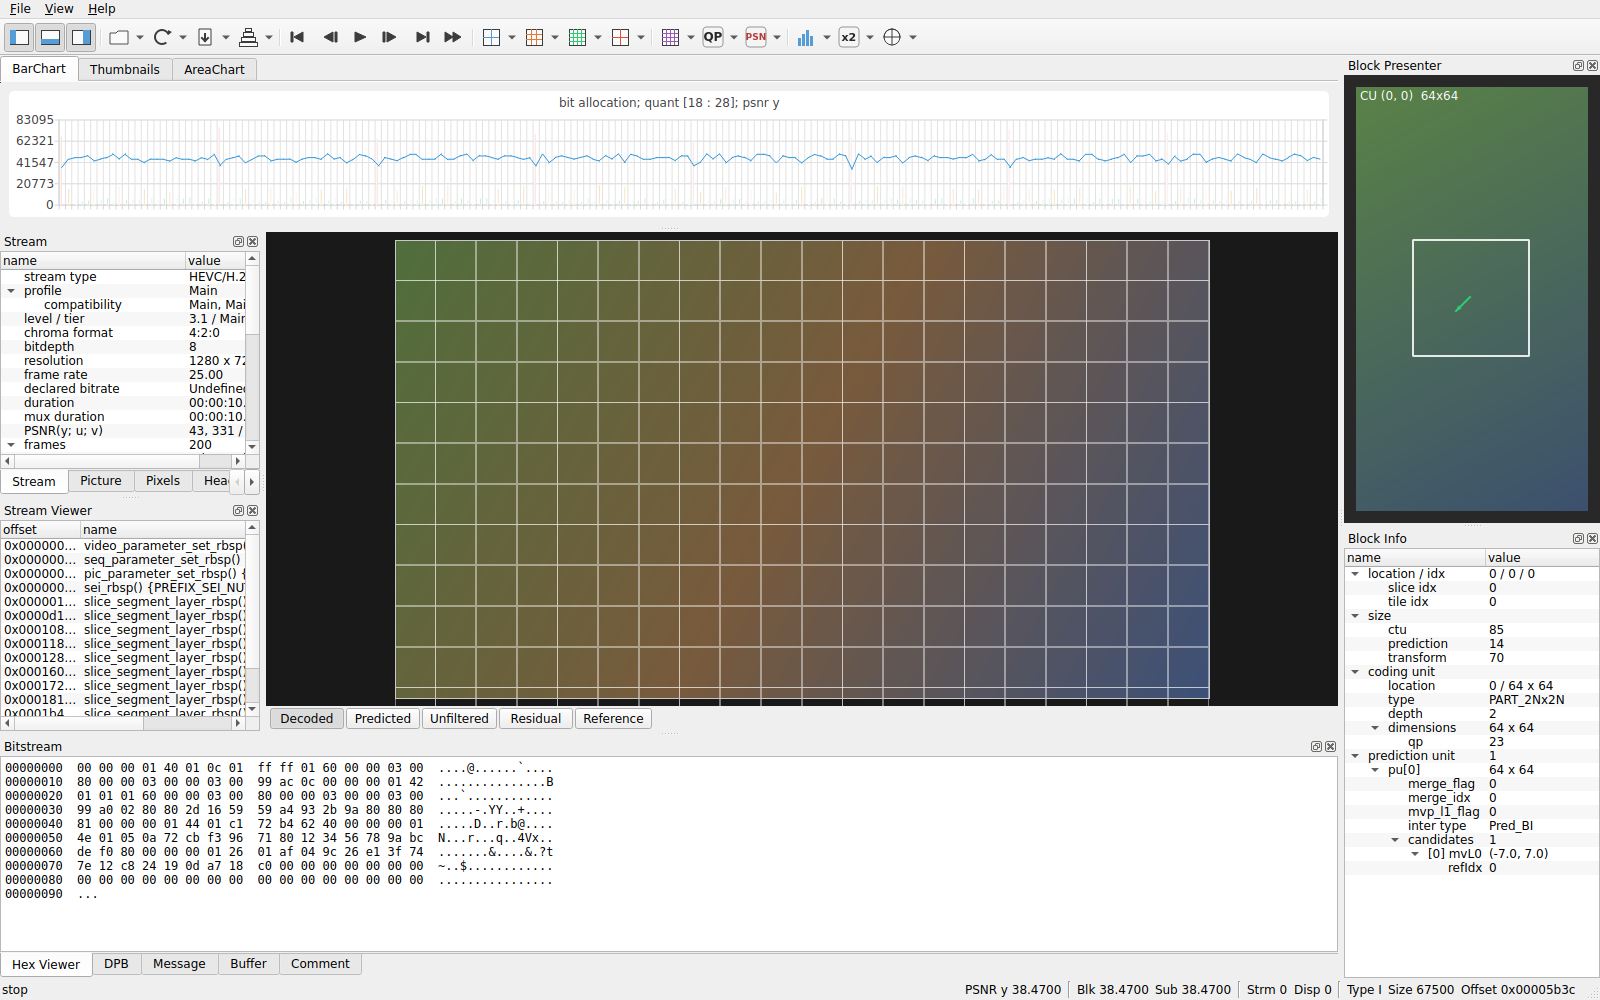
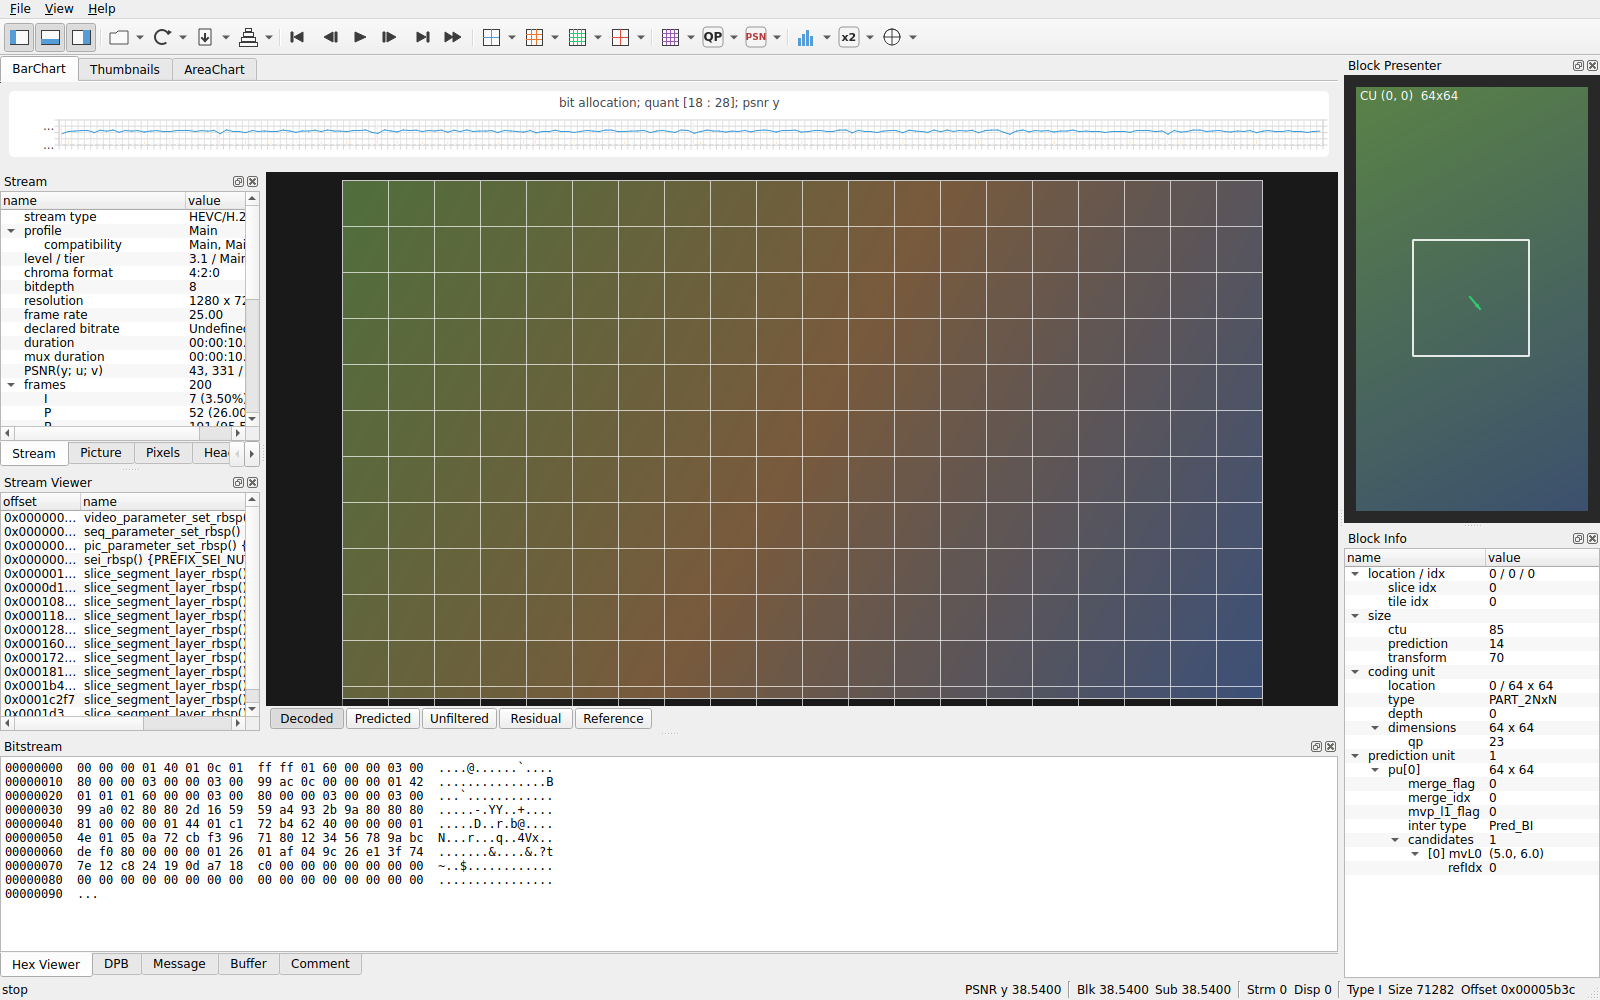
Hard-fix chart dock height to 110 px
Use setFixedHeight on both the ChartTabWidget and the dock itself
(plus resizeDocks) so the BarChart strip cannot grow when the
splitter is dragged. 110 px gives the tab bar, chart title and a
thin data band — the rest of the window goes to the video preview
and the side / bottom docks.

https://claude.ai/code/session_01Fk599Kxe4RL25fwFBHgwYp

diff --git a/src/MainWindow.cpp b/src/MainWindow.cpp
@@ -96,15 +96,14 @@ void MainWindow::setupDocks() {
     chartDock->setFeatures(QDockWidget::NoDockWidgetFeatures);
     chartDock->setTitleBarWidget(new QWidget(chartDock));   // hide title bar
     m_chartTabs = new ChartTabWidget(&m_data, chartDock);
-    m_chartTabs->setMinimumHeight(150);
-    m_chartTabs->setMaximumHeight(190);
+    m_chartTabs->setFixedHeight(110);
     chartDock->setWidget(m_chartTabs);
     chartDock->setAllowedAreas(Qt::TopDockWidgetArea);
     addDockWidget(Qt::TopDockWidgetArea, chartDock);
-    // Slim chart strip — just tall enough for the tab bar, the chart title
-    // and a couple of Y-axis tick labels (matches the user-supplied
-    // reference proportion).
-    resizeDocks({chartDock}, {170}, Qt::Vertical);
+    // The dock itself is hard-clamped to the same height so it cannot
+    // grow when the splitter is resized.
+    chartDock->setFixedHeight(110);
+    resizeDocks({chartDock}, {110}, Qt::Vertical);
 
     // --- Left dock (top): Stream panel with 6 tabs -------------------------
     // The "Stream" tab hosts the existing StreamInfoTree. The other five
